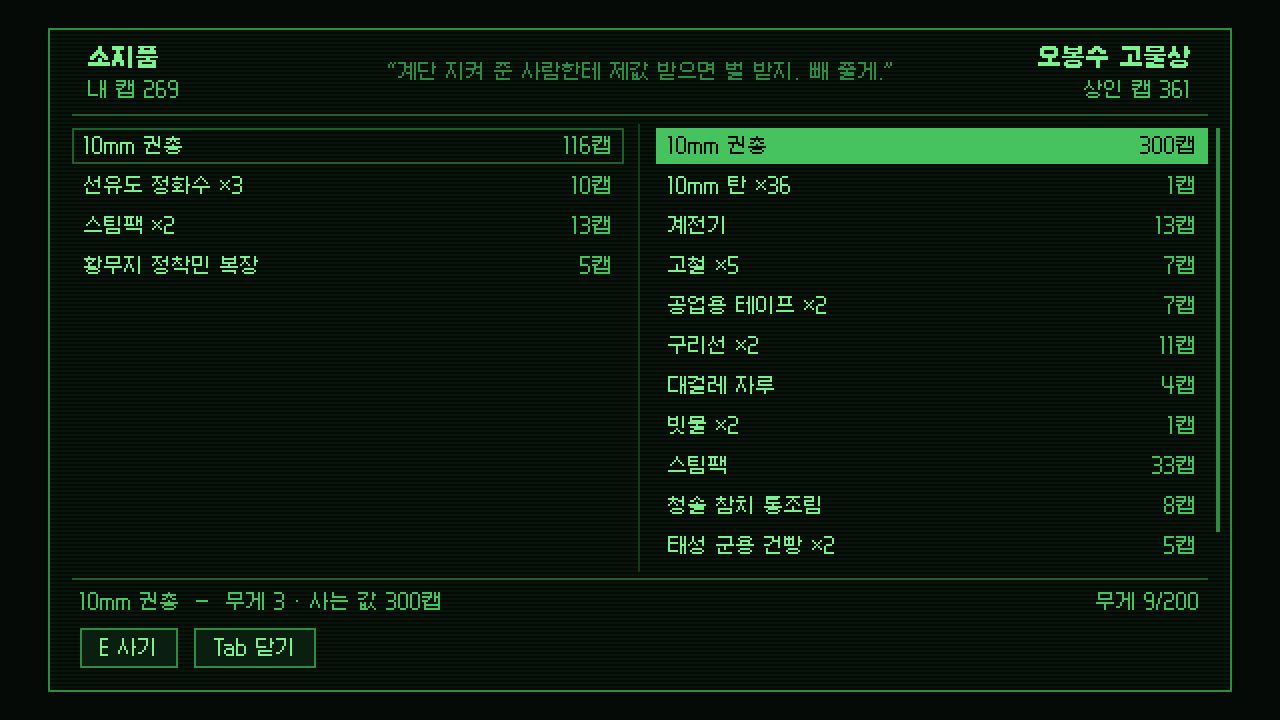
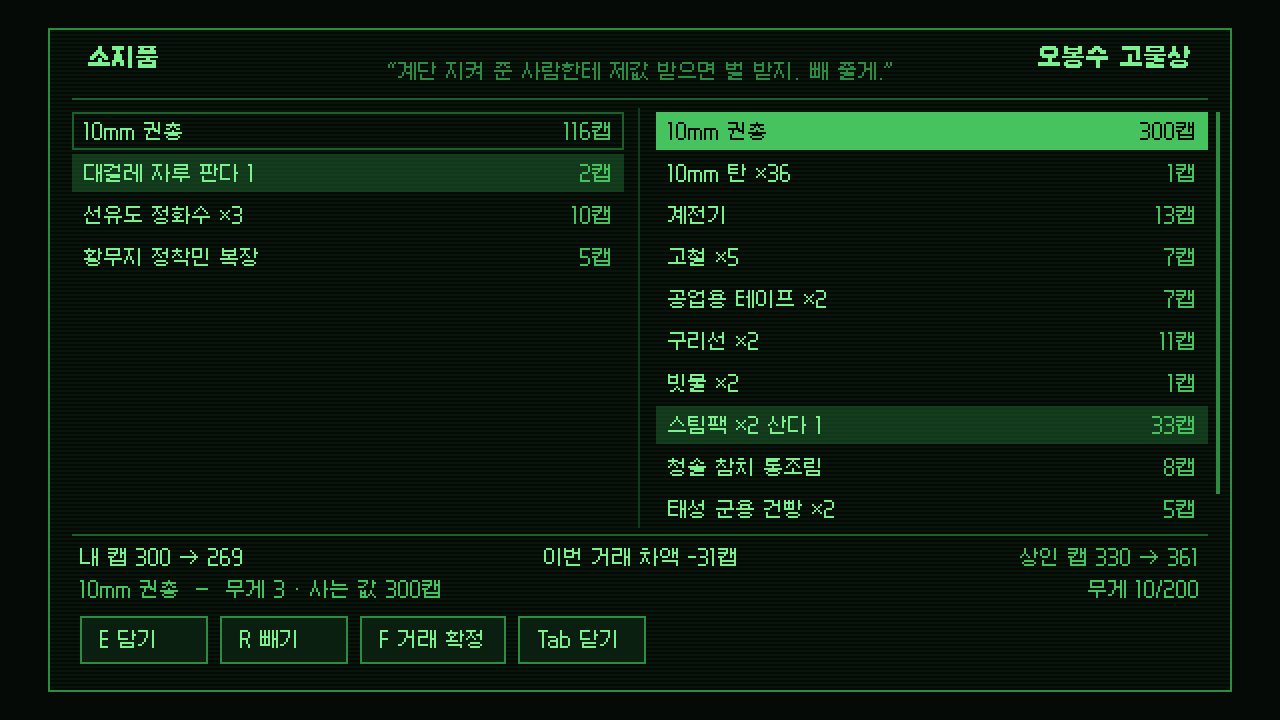
0-10c 거래 창을 바구니 거래로(SD-12 §11.1) + 해법 5가지 게시판 비교 견본
- 담기·빼기 → 내 캡/이번 거래 차액/상인 캡(확정 뒤 값) → 거래 확정(단추는 두 번), 닫으면 없던 일
- 봇: 담은 모습을 찍고 다음 차례에 확정, 시험 바구니 거래 1개 추가(115개, 실패 0)
- 비탈부터 해법 1~5 완주 결과를 STAGE_0에 기록, 견본 36 갱신·38 게시판 5종

Claude-Session: https://claude.ai/code/session_01AB2Pu8KtgEfTfn2XzBJpW9

diff --git a/game/STAGE_0.md b/game/STAGE_0.md
@@ -403,7 +403,8 @@
   쓰러지면 계단참④에서 HP 절반으로 깬다 ② 옥상길 유인 — 서쪽 사다리 셋 → 맨홀 ③ 거짓말 — [화술 쉬움] 또는 [증거: A-016](입은 옷) ④ 돈 200캡
   ⑤ 마을을 판다 — 약국에서 저수조 얘기를 들었을 때만. 결과마다 카르마·봉천·새벽인력·판도(PD_BC·PD_R01)·게시판 그림 5종·주민 호칭·고물상 값.
 - **백구 경보**: 밤 아랫마당에 추적조가 서 있는 동안 백구 '!'·추적조 '?' 말풍선(4초마다), 첫 번 안내 줄.
-- **생활 3가지**(0-10c): 거래 창 `systems/ui/trade_screen.gd`(용기 창을 이어받은 2단 창, SD-15 `PriceOf` = `TradeScreen.price_of` — B·S 물물교환,
+- **생활 3가지**(0-10c): 거래 창 `systems/ui/trade_screen.gd`(용기 창을 이어받은 2단 창 · SD-12 §11.1 **바구니 거래** — 담기·빼기 →
+  아래 줄 `내 캡 → 확정 뒤 / 이번 거래 차액 / 상인 캡 → 확정 뒤` → 거래 확정, 단추로 확정할 때는 두 번 누름(§17.1), 닫으면 담은 것은 없던 일, SD-15 `PriceOf` = `TradeScreen.price_of` — B·S 물물교환,
   F 정착지 호감도 단계, K 퀘스트 특전·품목 배수, 구매 하한 V·판매 상한 0.95V), 상인 표 `tools/pipeline/merchant_export.py` → `data/merchants.json`
   (V01 오봉수 고물상 · V02 하숙자 약국, 보유 캡 등급·갱신 주기), 상인 상태 `st.boxes["shop:V…"]`. 물(I-054~I-057 — 라드 즉시, HP 5초)·라드어웨이
   (−50 × (1 + 의학/50))·옷 입기(핍-보이 의복 칸, 몸통 그림 바뀜)·약국 치료(40·70·100캡). 탄약도 아이템 표에 싣는다(가치 1).
@@ -421,4 +422,11 @@
   - 새 소품을 아틀라스에 넣은 뒤 Godot 가져오기 캐시가 옛 그림을 써서 실내가 비어 보였다 → 그림을 바꾸면 `godot --headless --import`.
   - 장판 첫 그림이 큰 얼룩(위장무늬)이었다 → 잔 반짝임만.
 - **개발용 시작점**: `--from=x`(비탈부터) · `xbc` · `xnight`(세 가지를 마친 밤, 해법만) · `xwalk`/`xroof`(걷기 봇). 봇 `--sol=1~5`.
+- **확인**: 봇 `--from=x --sol=1~5`(비탈부터 아침까지 완주, 스크린샷 해법별) — ① 방어 결과 1 · 봉천 +14(+20 +3 백구 −3×3 감시조) · 새벽 −40 ·
+  판도 봉천 +10 · R01 +5 ② 유인(들개 지나침 → 백구 3) 카르마 +25 · 봉천 +15 ③ 거짓말(정착민 복장) 봉천 +8 ④ 돈 200캡 ⑤ 마을을 팖 카르마 −100 ·
+  봉천 −20 · 판도 −10, MQ-102 단서는 게시판에서. `--from=xnight --sol=1~5` 모두 완주. 0-9 탈출 봇 `--from=p4e --esc=1~4`도 공격 토큰 수정 뒤
+  다시 돌려 모두 막 1까지.
+- 단위 시험 115개(MQ-101 8 — 값 공식·단계 배수·상인 표·사고팔기·바구니 거래·갱신·높이 규칙·옷과 물 / 공격 토큰 1), 실패 0.
+- 녹화 견본: `art/samples/34_mq101_slope_dogs.gif`(들개 → 백구가 앞장) · `35_mq101_night_defense.gif`(독사 → 페이드 → 계단 방어) ·
+  `36_trade_v01_x2.png`(거래 창 — 바구니에 판 것·산 것과 차액) · `38_mq101_board_five.png`(해법 5가지의 아침 게시판) · `37_bongcheon_interiors.png`(이장실·빌린 침대 방·약국).
 

diff --git a/docs/seoul-fallout/15_economy.md b/docs/seoul-fallout/15_economy.md
@@ -366,8 +366,10 @@ M = P(판도) × G(공급)                                (§3.4)
   수혈 팩·갑상선 방호정·정화수). W-001·W-014·.32 탄·12게이지·대못·M-100·I-007·I-092는 SD-13 추출 범위가 넓어지면 넣는다.
 - 보유 캡·갱신: 기준 = 등급 a + b × 주인공 레벨, `GAME_DAY`가 갱신 주기(일) 이상 지나면 진열을 다시 채우고 캡 = min(기준×1.5, max(기준, 현재×0.5)).
   06:00 시각 판정은 게임 시계가 들어오는 단계에서. 상인 상태는 이야기 상태(`st.boxes["shop:V01"]`)에 남는다.
-- 거래 창은 용기 창(2단)을 이어받는다: 왼쪽 내 소지품(파는 값, 그 상인이 사는 것만), 오른쪽 진열(사는 값, 캡이 모자라면 어둡게). E = 하나,
-  Shift+E·오른쪽 클릭 = 그 줄 캡이 닿는 만큼. 위에 상인 캡·내 캡과 인사 한 줄(가장 큰 보정을 말로). 입고 있는 한 벌·퀘스트 물건은 팔 수 없다.
+- 거래 창은 용기 창(2단)을 이어받은 **바구니 거래**다(SD-12 §11.1): 왼쪽 내 소지품(파는 값, 그 상인이 사는 것만), 오른쪽 진열(사는 값).
+  E = 하나 담기 · Shift+E = 그 줄 전부 · R = 빼기 → 아래 줄 `내 캡 → 확정 뒤 / 이번 거래 차액 / 상인 캡 → 확정 뒤` → F 거래 확정(단추는 두 번).
+  차액을 내 캡·상인 캡이 감당하지 못하면 확정이 꺼진다. 창을 닫으면 담은 것은 없던 일. 위에 인사 한 줄(가장 큰 보정을 말로).
+  입고 있는 한 벌·퀘스트 물건은 팔 수 없다. 분류 탭(전체·무기·의복…)과 수량 창은 물건 수가 늘어나는 단계에서 더한다.
 
 ### 3.11 물물교환이 걸린 대화 거래
 거래 창 밖에서 물물교환이 조건이 되는 대화다. 판정 난이도는 SD-10 §3.6(I~V), 결과 수치는 각 퀘스트 문서가 정본이고 이 표는 경제 쪽 기준값이다.
